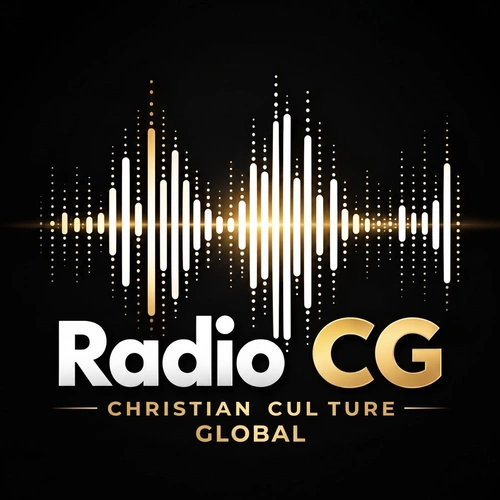
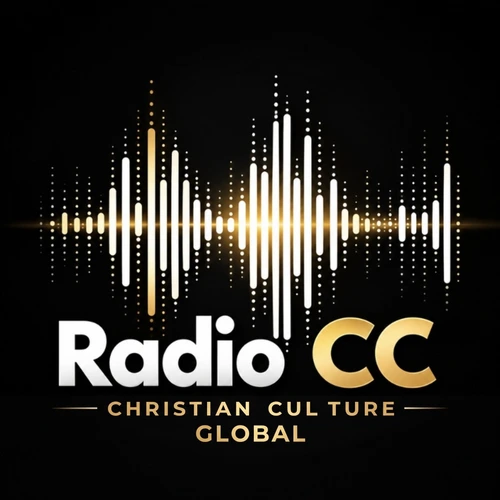
feat(global): update Global Radio cover art to official Radio CC gold soundwave emblem

diff --git a/Global/articles/global-gospel-christian-music-around-the-world/index.html b/Global/articles/global-gospel-christian-music-around-the-world/index.html
@@ -1,4 +1,4 @@
-<!doctype html><html lang="en"><head><meta charset="UTF-8"/><meta name="viewport" content="width=device-width,initial-scale=1"/><meta name="theme-color" content="#07162c"/><title>Global Gospel — Christian Music Around the World | Christian Culture Global</title><meta name="description" content="From Latin America to Africa and Asia: how diverse languages and acoustic traditions glorify the same King Jesus."/><meta property="og:type" content="website"/><meta property="og:title" content="Christian Culture Global — Faith. Music. Hope."/><meta property="og:description" content="Christian music, Bible radio, worship premieres and faith stories from around the world."/><meta property="og:image" content="https://polskieradio.cc/Global/assets/hero.webp"/><meta property="og:url" content="https://polskieradio.cc/Global/"/><meta name="twitter:card" content="summary_large_image"/><link rel="canonical" href="https://polskieradio.cc/Global/articles/global-gospel-christian-music-around-the-world/"/><link rel="icon" href="/Global/assets/favicon.svg" type="image/svg+xml"/><link rel="preload" href="/Global/assets/hero.webp" as="image"/><script type="application/ld+json">{"@context":"https://schema.org","@type":"WebSite","name":"Christian Culture Global","url":"https://polskieradio.cc/Global/","inLanguage":["en","pl","es","pt","fr","de","hi","id","sw","zh-CN"],"publisher":{"@type":"Organization","name":"Christian Culture","url":"https://polskieradio.cc"}}</script>  <script type="module" crossorigin src="/Global/static/index-19dt_FWZ.js"></script>
+<!doctype html><html lang="en"><head><meta charset="UTF-8"/><meta name="viewport" content="width=device-width,initial-scale=1"/><meta name="theme-color" content="#07162c"/><title>Global Gospel — Christian Music Around the World | Christian Culture Global</title><meta name="description" content="From Latin America to Africa and Asia: how diverse languages and acoustic traditions glorify the same King Jesus."/><meta property="og:type" content="website"/><meta property="og:title" content="Christian Culture Global — Faith. Music. Hope."/><meta property="og:description" content="Christian music, Bible radio, worship premieres and faith stories from around the world."/><meta property="og:image" content="https://polskieradio.cc/Global/assets/hero.webp"/><meta property="og:url" content="https://polskieradio.cc/Global/"/><meta name="twitter:card" content="summary_large_image"/><link rel="canonical" href="https://polskieradio.cc/Global/articles/global-gospel-christian-music-around-the-world/"/><link rel="icon" href="/Global/assets/favicon.svg" type="image/svg+xml"/><link rel="preload" href="/Global/assets/hero.webp" as="image"/><script type="application/ld+json">{"@context":"https://schema.org","@type":"WebSite","name":"Christian Culture Global","url":"https://polskieradio.cc/Global/","inLanguage":["en","pl","es","pt","fr","de","hi","id","sw","zh-CN"],"publisher":{"@type":"Organization","name":"Christian Culture","url":"https://polskieradio.cc"}}</script>  <script type="module" crossorigin src="/Global/static/index-DkpfF-hs.js"></script>
   <link rel="stylesheet" crossorigin href="/Global/static/index-D6ljK_yW.css">
 <script type="application/ld+json">{"@context":"https://schema.org","@type":"Article","headline":"Global Gospel — Christian Music Around the World","description":"From Latin America to Africa and Asia: how diverse languages and acoustic traditions glorify the same King Jesus.","datePublished":"2026-10-16","author":{"@type":"Organization","name":"Christian Culture"},"publisher":{"@type":"Organization","name":"Christian Culture","url":"https://polskieradio.cc"},"mainEntityOfPage":"https://polskieradio.cc/Global/articles/global-gospel-christian-music-around-the-world/"}</script></head><body><div id="app">
     <main class="wrap article-detail">

diff --git a/Global/articles/biblical-worship-sing-the-word-of-god/index.html b/Global/articles/biblical-worship-sing-the-word-of-god/index.html
@@ -1,4 +1,4 @@
-<!doctype html><html lang="en"><head><meta charset="UTF-8"/><meta name="viewport" content="width=device-width,initial-scale=1"/><meta name="theme-color" content="#07162c"/><title>Biblical Worship — Sing the Entire Word of God! | Christian Culture Global</title><meta name="description" content="A journey through the 66 books and 1,189 chapters of Scripture — a vision for music, learning and worship."/><meta property="og:type" content="website"/><meta property="og:title" content="Christian Culture Global — Faith. Music. Hope."/><meta property="og:description" content="Christian music, Bible radio, worship premieres and faith stories from around the world."/><meta property="og:image" content="https://polskieradio.cc/Global/assets/hero.webp"/><meta property="og:url" content="https://polskieradio.cc/Global/"/><meta name="twitter:card" content="summary_large_image"/><link rel="canonical" href="https://polskieradio.cc/Global/articles/biblical-worship-sing-the-word-of-god/"/><link rel="icon" href="/Global/assets/favicon.svg" type="image/svg+xml"/><link rel="preload" href="/Global/assets/hero.webp" as="image"/><script type="application/ld+json">{"@context":"https://schema.org","@type":"WebSite","name":"Christian Culture Global","url":"https://polskieradio.cc/Global/","inLanguage":["en","pl","es","pt","fr","de","hi","id","sw","zh-CN"],"publisher":{"@type":"Organization","name":"Christian Culture","url":"https://polskieradio.cc"}}</script>  <script type="module" crossorigin src="/Global/static/index-19dt_FWZ.js"></script>
+<!doctype html><html lang="en"><head><meta charset="UTF-8"/><meta name="viewport" content="width=device-width,initial-scale=1"/><meta name="theme-color" content="#07162c"/><title>Biblical Worship — Sing the Entire Word of God! | Christian Culture Global</title><meta name="description" content="A journey through the 66 books and 1,189 chapters of Scripture — a vision for music, learning and worship."/><meta property="og:type" content="website"/><meta property="og:title" content="Christian Culture Global — Faith. Music. Hope."/><meta property="og:description" content="Christian music, Bible radio, worship premieres and faith stories from around the world."/><meta property="og:image" content="https://polskieradio.cc/Global/assets/hero.webp"/><meta property="og:url" content="https://polskieradio.cc/Global/"/><meta name="twitter:card" content="summary_large_image"/><link rel="canonical" href="https://polskieradio.cc/Global/articles/biblical-worship-sing-the-word-of-god/"/><link rel="icon" href="/Global/assets/favicon.svg" type="image/svg+xml"/><link rel="preload" href="/Global/assets/hero.webp" as="image"/><script type="application/ld+json">{"@context":"https://schema.org","@type":"WebSite","name":"Christian Culture Global","url":"https://polskieradio.cc/Global/","inLanguage":["en","pl","es","pt","fr","de","hi","id","sw","zh-CN"],"publisher":{"@type":"Organization","name":"Christian Culture","url":"https://polskieradio.cc"}}</script>  <script type="module" crossorigin src="/Global/static/index-DkpfF-hs.js"></script>
   <link rel="stylesheet" crossorigin href="/Global/static/index-D6ljK_yW.css">
 <script type="application/ld+json">{"@context":"https://schema.org","@type":"Article","headline":"Biblical Worship — Sing the Entire Word of God!","description":"A journey through the 66 books and 1,189 chapters of Scripture — a vision for music, learning and worship.","datePublished":"2026-10-16","author":{"@type":"Organization","name":"Christian Culture"},"publisher":{"@type":"Organization","name":"Christian Culture","url":"https://polskieradio.cc"},"mainEntityOfPage":"https://polskieradio.cc/Global/articles/biblical-worship-sing-the-word-of-god/"}</script></head><body><div id="app">
     <main class="wrap article-detail">

diff --git a/Global/articles/jj-beauvais-two-songs-of-hope/index.html b/Global/articles/jj-beauvais-two-songs-of-hope/index.html
@@ -1,4 +1,4 @@
-<!doctype html><html lang="en"><head><meta charset="UTF-8"/><meta name="viewport" content="width=device-width,initial-scale=1"/><meta name="theme-color" content="#07162c"/><title>Artist Story: JJ Beauvais — A Life of Worship | Christian Culture Global</title><meta name="description" content="Discover Now Is The Time and Written In Heaven (Live), two Christian songs shared with permission by JJ Beauvais."/><meta property="og:type" content="website"/><meta property="og:title" content="Christian Culture Global — Faith. Music. Hope."/><meta property="og:description" content="Christian music, Bible radio, worship premieres and faith stories from around the world."/><meta property="og:image" content="https://polskieradio.cc/Global/assets/hero.webp"/><meta property="og:url" content="https://polskieradio.cc/Global/"/><meta name="twitter:card" content="summary_large_image"/><link rel="canonical" href="https://polskieradio.cc/Global/articles/jj-beauvais-two-songs-of-hope/"/><link rel="icon" href="/Global/assets/favicon.svg" type="image/svg+xml"/><link rel="preload" href="/Global/assets/hero.webp" as="image"/><script type="application/ld+json">{"@context":"https://schema.org","@type":"WebSite","name":"Christian Culture Global","url":"https://polskieradio.cc/Global/","inLanguage":["en","pl","es","pt","fr","de","hi","id","sw","zh-CN"],"publisher":{"@type":"Organization","name":"Christian Culture","url":"https://polskieradio.cc"}}</script>  <script type="module" crossorigin src="/Global/static/index-19dt_FWZ.js"></script>
+<!doctype html><html lang="en"><head><meta charset="UTF-8"/><meta name="viewport" content="width=device-width,initial-scale=1"/><meta name="theme-color" content="#07162c"/><title>Artist Story: JJ Beauvais — A Life of Worship | Christian Culture Global</title><meta name="description" content="Discover Now Is The Time and Written In Heaven (Live), two Christian songs shared with permission by JJ Beauvais."/><meta property="og:type" content="website"/><meta property="og:title" content="Christian Culture Global — Faith. Music. Hope."/><meta property="og:description" content="Christian music, Bible radio, worship premieres and faith stories from around the world."/><meta property="og:image" content="https://polskieradio.cc/Global/assets/hero.webp"/><meta property="og:url" content="https://polskieradio.cc/Global/"/><meta name="twitter:card" content="summary_large_image"/><link rel="canonical" href="https://polskieradio.cc/Global/articles/jj-beauvais-two-songs-of-hope/"/><link rel="icon" href="/Global/assets/favicon.svg" type="image/svg+xml"/><link rel="preload" href="/Global/assets/hero.webp" as="image"/><script type="application/ld+json">{"@context":"https://schema.org","@type":"WebSite","name":"Christian Culture Global","url":"https://polskieradio.cc/Global/","inLanguage":["en","pl","es","pt","fr","de","hi","id","sw","zh-CN"],"publisher":{"@type":"Organization","name":"Christian Culture","url":"https://polskieradio.cc"}}</script>  <script type="module" crossorigin src="/Global/static/index-DkpfF-hs.js"></script>
   <link rel="stylesheet" crossorigin href="/Global/static/index-D6ljK_yW.css">
 <script type="application/ld+json">{"@context":"https://schema.org","@type":"Article","headline":"Artist Story: JJ Beauvais — A Life of Worship","description":"Discover Now Is The Time and Written In Heaven (Live), two Christian songs shared with permission by JJ Beauvais.","datePublished":"2026-10-16","author":{"@type":"Organization","name":"Christian Culture"},"publisher":{"@type":"Organization","name":"Christian Culture","url":"https://polskieradio.cc"},"mainEntityOfPage":"https://polskieradio.cc/Global/articles/jj-beauvais-two-songs-of-hope/"}</script></head><body><div id="app">
     <main class="wrap article-detail">

diff --git a/Global/articles/music-and-scripture-deeper-connection/index.html b/Global/articles/music-and-scripture-deeper-connection/index.html
@@ -1,4 +1,4 @@
-<!doctype html><html lang="en"><head><meta charset="UTF-8"/><meta name="viewport" content="width=device-width,initial-scale=1"/><meta name="theme-color" content="#07162c"/><title>Music and Scripture — A Deeper Connection | Christian Culture Global</title><meta name="description" content="Why memorizing Scripture through song transforms neural pathways and builds lasting faith foundations."/><meta property="og:type" content="website"/><meta property="og:title" content="Christian Culture Global — Faith. Music. Hope."/><meta property="og:description" content="Christian music, Bible radio, worship premieres and faith stories from around the world."/><meta property="og:image" content="https://polskieradio.cc/Global/assets/hero.webp"/><meta property="og:url" content="https://polskieradio.cc/Global/"/><meta name="twitter:card" content="summary_large_image"/><link rel="canonical" href="https://polskieradio.cc/Global/articles/music-and-scripture-deeper-connection/"/><link rel="icon" href="/Global/assets/favicon.svg" type="image/svg+xml"/><link rel="preload" href="/Global/assets/hero.webp" as="image"/><script type="application/ld+json">{"@context":"https://schema.org","@type":"WebSite","name":"Christian Culture Global","url":"https://polskieradio.cc/Global/","inLanguage":["en","pl","es","pt","fr","de","hi","id","sw","zh-CN"],"publisher":{"@type":"Organization","name":"Christian Culture","url":"https://polskieradio.cc"}}</script>  <script type="module" crossorigin src="/Global/static/index-19dt_FWZ.js"></script>
+<!doctype html><html lang="en"><head><meta charset="UTF-8"/><meta name="viewport" content="width=device-width,initial-scale=1"/><meta name="theme-color" content="#07162c"/><title>Music and Scripture — A Deeper Connection | Christian Culture Global</title><meta name="description" content="Why memorizing Scripture through song transforms neural pathways and builds lasting faith foundations."/><meta property="og:type" content="website"/><meta property="og:title" content="Christian Culture Global — Faith. Music. Hope."/><meta property="og:description" content="Christian music, Bible radio, worship premieres and faith stories from around the world."/><meta property="og:image" content="https://polskieradio.cc/Global/assets/hero.webp"/><meta property="og:url" content="https://polskieradio.cc/Global/"/><meta name="twitter:card" content="summary_large_image"/><link rel="canonical" href="https://polskieradio.cc/Global/articles/music-and-scripture-deeper-connection/"/><link rel="icon" href="/Global/assets/favicon.svg" type="image/svg+xml"/><link rel="preload" href="/Global/assets/hero.webp" as="image"/><script type="application/ld+json">{"@context":"https://schema.org","@type":"WebSite","name":"Christian Culture Global","url":"https://polskieradio.cc/Global/","inLanguage":["en","pl","es","pt","fr","de","hi","id","sw","zh-CN"],"publisher":{"@type":"Organization","name":"Christian Culture","url":"https://polskieradio.cc"}}</script>  <script type="module" crossorigin src="/Global/static/index-DkpfF-hs.js"></script>
   <link rel="stylesheet" crossorigin href="/Global/static/index-D6ljK_yW.css">
 <script type="application/ld+json">{"@context":"https://schema.org","@type":"Article","headline":"Music and Scripture — A Deeper Connection","description":"Why memorizing Scripture through song transforms neural pathways and builds lasting faith foundations.","datePublished":"2026-10-16","author":{"@type":"Organization","name":"Christian Culture"},"publisher":{"@type":"Organization","name":"Christian Culture","url":"https://polskieradio.cc"},"mainEntityOfPage":"https://polskieradio.cc/Global/articles/music-and-scripture-deeper-connection/"}</script></head><body><div id="app">
     <main class="wrap article-detail">

diff --git a/Global/articles/the-power-of-worship-music/index.html b/Global/articles/the-power-of-worship-music/index.html
@@ -1,4 +1,4 @@
-<!doctype html><html lang="en"><head><meta charset="UTF-8"/><meta name="viewport" content="width=device-width,initial-scale=1"/><meta name="theme-color" content="#07162c"/><title>The Power of Worship Music in a Changing World | Christian Culture Global</title><meta name="description" content="How authentic worship music anchors believers, touches seeker hearts, and cuts through modern digital noise."/><meta property="og:type" content="website"/><meta property="og:title" content="Christian Culture Global — Faith. Music. Hope."/><meta property="og:description" content="Christian music, Bible radio, worship premieres and faith stories from around the world."/><meta property="og:image" content="https://polskieradio.cc/Global/assets/hero.webp"/><meta property="og:url" content="https://polskieradio.cc/Global/"/><meta name="twitter:card" content="summary_large_image"/><link rel="canonical" href="https://polskieradio.cc/Global/articles/the-power-of-worship-music/"/><link rel="icon" href="/Global/assets/favicon.svg" type="image/svg+xml"/><link rel="preload" href="/Global/assets/hero.webp" as="image"/><script type="application/ld+json">{"@context":"https://schema.org","@type":"WebSite","name":"Christian Culture Global","url":"https://polskieradio.cc/Global/","inLanguage":["en","pl","es","pt","fr","de","hi","id","sw","zh-CN"],"publisher":{"@type":"Organization","name":"Christian Culture","url":"https://polskieradio.cc"}}</script>  <script type="module" crossorigin src="/Global/static/index-19dt_FWZ.js"></script>
+<!doctype html><html lang="en"><head><meta charset="UTF-8"/><meta name="viewport" content="width=device-width,initial-scale=1"/><meta name="theme-color" content="#07162c"/><title>The Power of Worship Music in a Changing World | Christian Culture Global</title><meta name="description" content="How authentic worship music anchors believers, touches seeker hearts, and cuts through modern digital noise."/><meta property="og:type" content="website"/><meta property="og:title" content="Christian Culture Global — Faith. Music. Hope."/><meta property="og:description" content="Christian music, Bible radio, worship premieres and faith stories from around the world."/><meta property="og:image" content="https://polskieradio.cc/Global/assets/hero.webp"/><meta property="og:url" content="https://polskieradio.cc/Global/"/><meta name="twitter:card" content="summary_large_image"/><link rel="canonical" href="https://polskieradio.cc/Global/articles/the-power-of-worship-music/"/><link rel="icon" href="/Global/assets/favicon.svg" type="image/svg+xml"/><link rel="preload" href="/Global/assets/hero.webp" as="image"/><script type="application/ld+json">{"@context":"https://schema.org","@type":"WebSite","name":"Christian Culture Global","url":"https://polskieradio.cc/Global/","inLanguage":["en","pl","es","pt","fr","de","hi","id","sw","zh-CN"],"publisher":{"@type":"Organization","name":"Christian Culture","url":"https://polskieradio.cc"}}</script>  <script type="module" crossorigin src="/Global/static/index-DkpfF-hs.js"></script>
   <link rel="stylesheet" crossorigin href="/Global/static/index-D6ljK_yW.css">
 <script type="application/ld+json">{"@context":"https://schema.org","@type":"Article","headline":"The Power of Worship Music in a Changing World","description":"How authentic worship music anchors believers, touches seeker hearts, and cuts through modern digital noise.","datePublished":"2026-10-16","author":{"@type":"Organization","name":"Christian Culture"},"publisher":{"@type":"Organization","name":"Christian Culture","url":"https://polskieradio.cc"},"mainEntityOfPage":"https://polskieradio.cc/Global/articles/the-power-of-worship-music/"}</script></head><body><div id="app">
     <main class="wrap article-detail">

diff --git a/Global/articles/how-the-psalms-still-speak-today/index.html b/Global/articles/how-the-psalms-still-speak-today/index.html
@@ -1,4 +1,4 @@
-<!doctype html><html lang="en"><head><meta charset="UTF-8"/><meta name="viewport" content="width=device-width,initial-scale=1"/><meta name="theme-color" content="#07162c"/><title>How the Psalms Still Speak Today | Christian Culture Global</title><meta name="description" content="Ancient prayers and melodies of David remain deeply relevant for processing grief, expressing joy, and seeking God."/><meta property="og:type" content="website"/><meta property="og:title" content="Christian Culture Global — Faith. Music. Hope."/><meta property="og:description" content="Christian music, Bible radio, worship premieres and faith stories from around the world."/><meta property="og:image" content="https://polskieradio.cc/Global/assets/hero.webp"/><meta property="og:url" content="https://polskieradio.cc/Global/"/><meta name="twitter:card" content="summary_large_image"/><link rel="canonical" href="https://polskieradio.cc/Global/articles/how-the-psalms-still-speak-today/"/><link rel="icon" href="/Global/assets/favicon.svg" type="image/svg+xml"/><link rel="preload" href="/Global/assets/hero.webp" as="image"/><script type="application/ld+json">{"@context":"https://schema.org","@type":"WebSite","name":"Christian Culture Global","url":"https://polskieradio.cc/Global/","inLanguage":["en","pl","es","pt","fr","de","hi","id","sw","zh-CN"],"publisher":{"@type":"Organization","name":"Christian Culture","url":"https://polskieradio.cc"}}</script>  <script type="module" crossorigin src="/Global/static/index-19dt_FWZ.js"></script>
+<!doctype html><html lang="en"><head><meta charset="UTF-8"/><meta name="viewport" content="width=device-width,initial-scale=1"/><meta name="theme-color" content="#07162c"/><title>How the Psalms Still Speak Today | Christian Culture Global</title><meta name="description" content="Ancient prayers and melodies of David remain deeply relevant for processing grief, expressing joy, and seeking God."/><meta property="og:type" content="website"/><meta property="og:title" content="Christian Culture Global — Faith. Music. Hope."/><meta property="og:description" content="Christian music, Bible radio, worship premieres and faith stories from around the world."/><meta property="og:image" content="https://polskieradio.cc/Global/assets/hero.webp"/><meta property="og:url" content="https://polskieradio.cc/Global/"/><meta name="twitter:card" content="summary_large_image"/><link rel="canonical" href="https://polskieradio.cc/Global/articles/how-the-psalms-still-speak-today/"/><link rel="icon" href="/Global/assets/favicon.svg" type="image/svg+xml"/><link rel="preload" href="/Global/assets/hero.webp" as="image"/><script type="application/ld+json">{"@context":"https://schema.org","@type":"WebSite","name":"Christian Culture Global","url":"https://polskieradio.cc/Global/","inLanguage":["en","pl","es","pt","fr","de","hi","id","sw","zh-CN"],"publisher":{"@type":"Organization","name":"Christian Culture","url":"https://polskieradio.cc"}}</script>  <script type="module" crossorigin src="/Global/static/index-DkpfF-hs.js"></script>
   <link rel="stylesheet" crossorigin href="/Global/static/index-D6ljK_yW.css">
 <script type="application/ld+json">{"@context":"https://schema.org","@type":"Article","headline":"How the Psalms Still Speak Today","description":"Ancient prayers and melodies of David remain deeply relevant for processing grief, expressing joy, and seeking God.","datePublished":"2026-10-16","author":{"@type":"Organization","name":"Christian Culture"},"publisher":{"@type":"Organization","name":"Christian Culture","url":"https://polskieradio.cc"},"mainEntityOfPage":"https://polskieradio.cc/Global/articles/how-the-psalms-still-speak-today/"}</script></head><body><div id="app">
     <main class="wrap article-detail">

diff --git a/Global/index.html b/Global/index.html
@@ -1,3 +1,3 @@
-<!doctype html><html lang="en"><head><meta charset="UTF-8"/><meta name="viewport" content="width=device-width,initial-scale=1"/><meta name="theme-color" content="#07162c"/><title>Christian Culture Global | Christian Music & Bible Radio 24/7</title><meta name="description" content="Listen to Christian Culture Global radio, explore the Bible, worship music, artist stories, and uplifting Christian articles in 10 languages."/><meta property="og:type" content="website"/><meta property="og:title" content="Christian Culture Global — Faith. Music. Hope."/><meta property="og:description" content="Christian music, Bible radio, worship premieres and faith stories from around the world."/><meta property="og:image" content="https://polskieradio.cc/Global/assets/hero.webp"/><meta property="og:url" content="https://polskieradio.cc/Global/"/><meta name="twitter:card" content="summary_large_image"/><link rel="canonical" href="https://polskieradio.cc/Global/"/><link rel="icon" href="/Global/assets/favicon.svg" type="image/svg+xml"/><link rel="preload" href="/Global/assets/hero.webp" as="image"/><script type="application/ld+json">{"@context":"https://schema.org","@type":"WebSite","name":"Christian Culture Global","url":"https://polskieradio.cc/Global/","inLanguage":["en","pl","es","pt","fr","de","hi","id","sw","zh-CN"],"publisher":{"@type":"Organization","name":"Christian Culture","url":"https://polskieradio.cc"}}</script>  <script type="module" crossorigin src="/Global/static/index-19dt_FWZ.js"></script>
+<!doctype html><html lang="en"><head><meta charset="UTF-8"/><meta name="viewport" content="width=device-width,initial-scale=1"/><meta name="theme-color" content="#07162c"/><title>Christian Culture Global | Christian Music & Bible Radio 24/7</title><meta name="description" content="Listen to Christian Culture Global radio, explore the Bible, worship music, artist stories, and uplifting Christian articles in 10 languages."/><meta property="og:type" content="website"/><meta property="og:title" content="Christian Culture Global — Faith. Music. Hope."/><meta property="og:description" content="Christian music, Bible radio, worship premieres and faith stories from around the world."/><meta property="og:image" content="https://polskieradio.cc/Global/assets/hero.webp"/><meta property="og:url" content="https://polskieradio.cc/Global/"/><meta name="twitter:card" content="summary_large_image"/><link rel="canonical" href="https://polskieradio.cc/Global/"/><link rel="icon" href="/Global/assets/favicon.svg" type="image/svg+xml"/><link rel="preload" href="/Global/assets/hero.webp" as="image"/><script type="application/ld+json">{"@context":"https://schema.org","@type":"WebSite","name":"Christian Culture Global","url":"https://polskieradio.cc/Global/","inLanguage":["en","pl","es","pt","fr","de","hi","id","sw","zh-CN"],"publisher":{"@type":"Organization","name":"Christian Culture","url":"https://polskieradio.cc"}}</script>  <script type="module" crossorigin src="/Global/static/index-DkpfF-hs.js"></script>
   <link rel="stylesheet" crossorigin href="/Global/static/index-D6ljK_yW.css">
 </head><body><div id="app"></div></body></html>

diff --git a/Global/static/index-DkpfF-hs.js b/Global/static/index-DkpfF-hs.js
@@ -120,7 +120,7 @@ const __vite__mapDeps=(i,m=__vite__mapDeps,d=(m.f||(m.f=["static/index.esm-DkOZO
           <!-- 2 LIVE RADIO STATIONS -->
           <section class="radio-stations-section" id="radio" aria-label="Radio Stations">
             <div class="radio-cards-grid">
-              ${P(`GLOBAL RADIO`,O(26),`global`,`radio-global.webp`,O(28))}
+              ${P(`GLOBAL RADIO`,O(26),`global`,`radio-global-v2.webp`,O(28))}
               ${P(`GLOBAL BIBLE RADIO`,O(27),`bible`,`radio-bible-v2.webp`,O(29))}
             </div>
           </section>

diff --git a/portals/cc-global/src/main.js b/portals/cc-global/src/main.js
@@ -204,7 +204,7 @@ function home() {
                 'GLOBAL RADIO',
                 tr(26),
                 'global',
-                'radio-global.webp',
+                'radio-global-v2.webp',
                 tr(28)
               )}
               ${stationCard(
